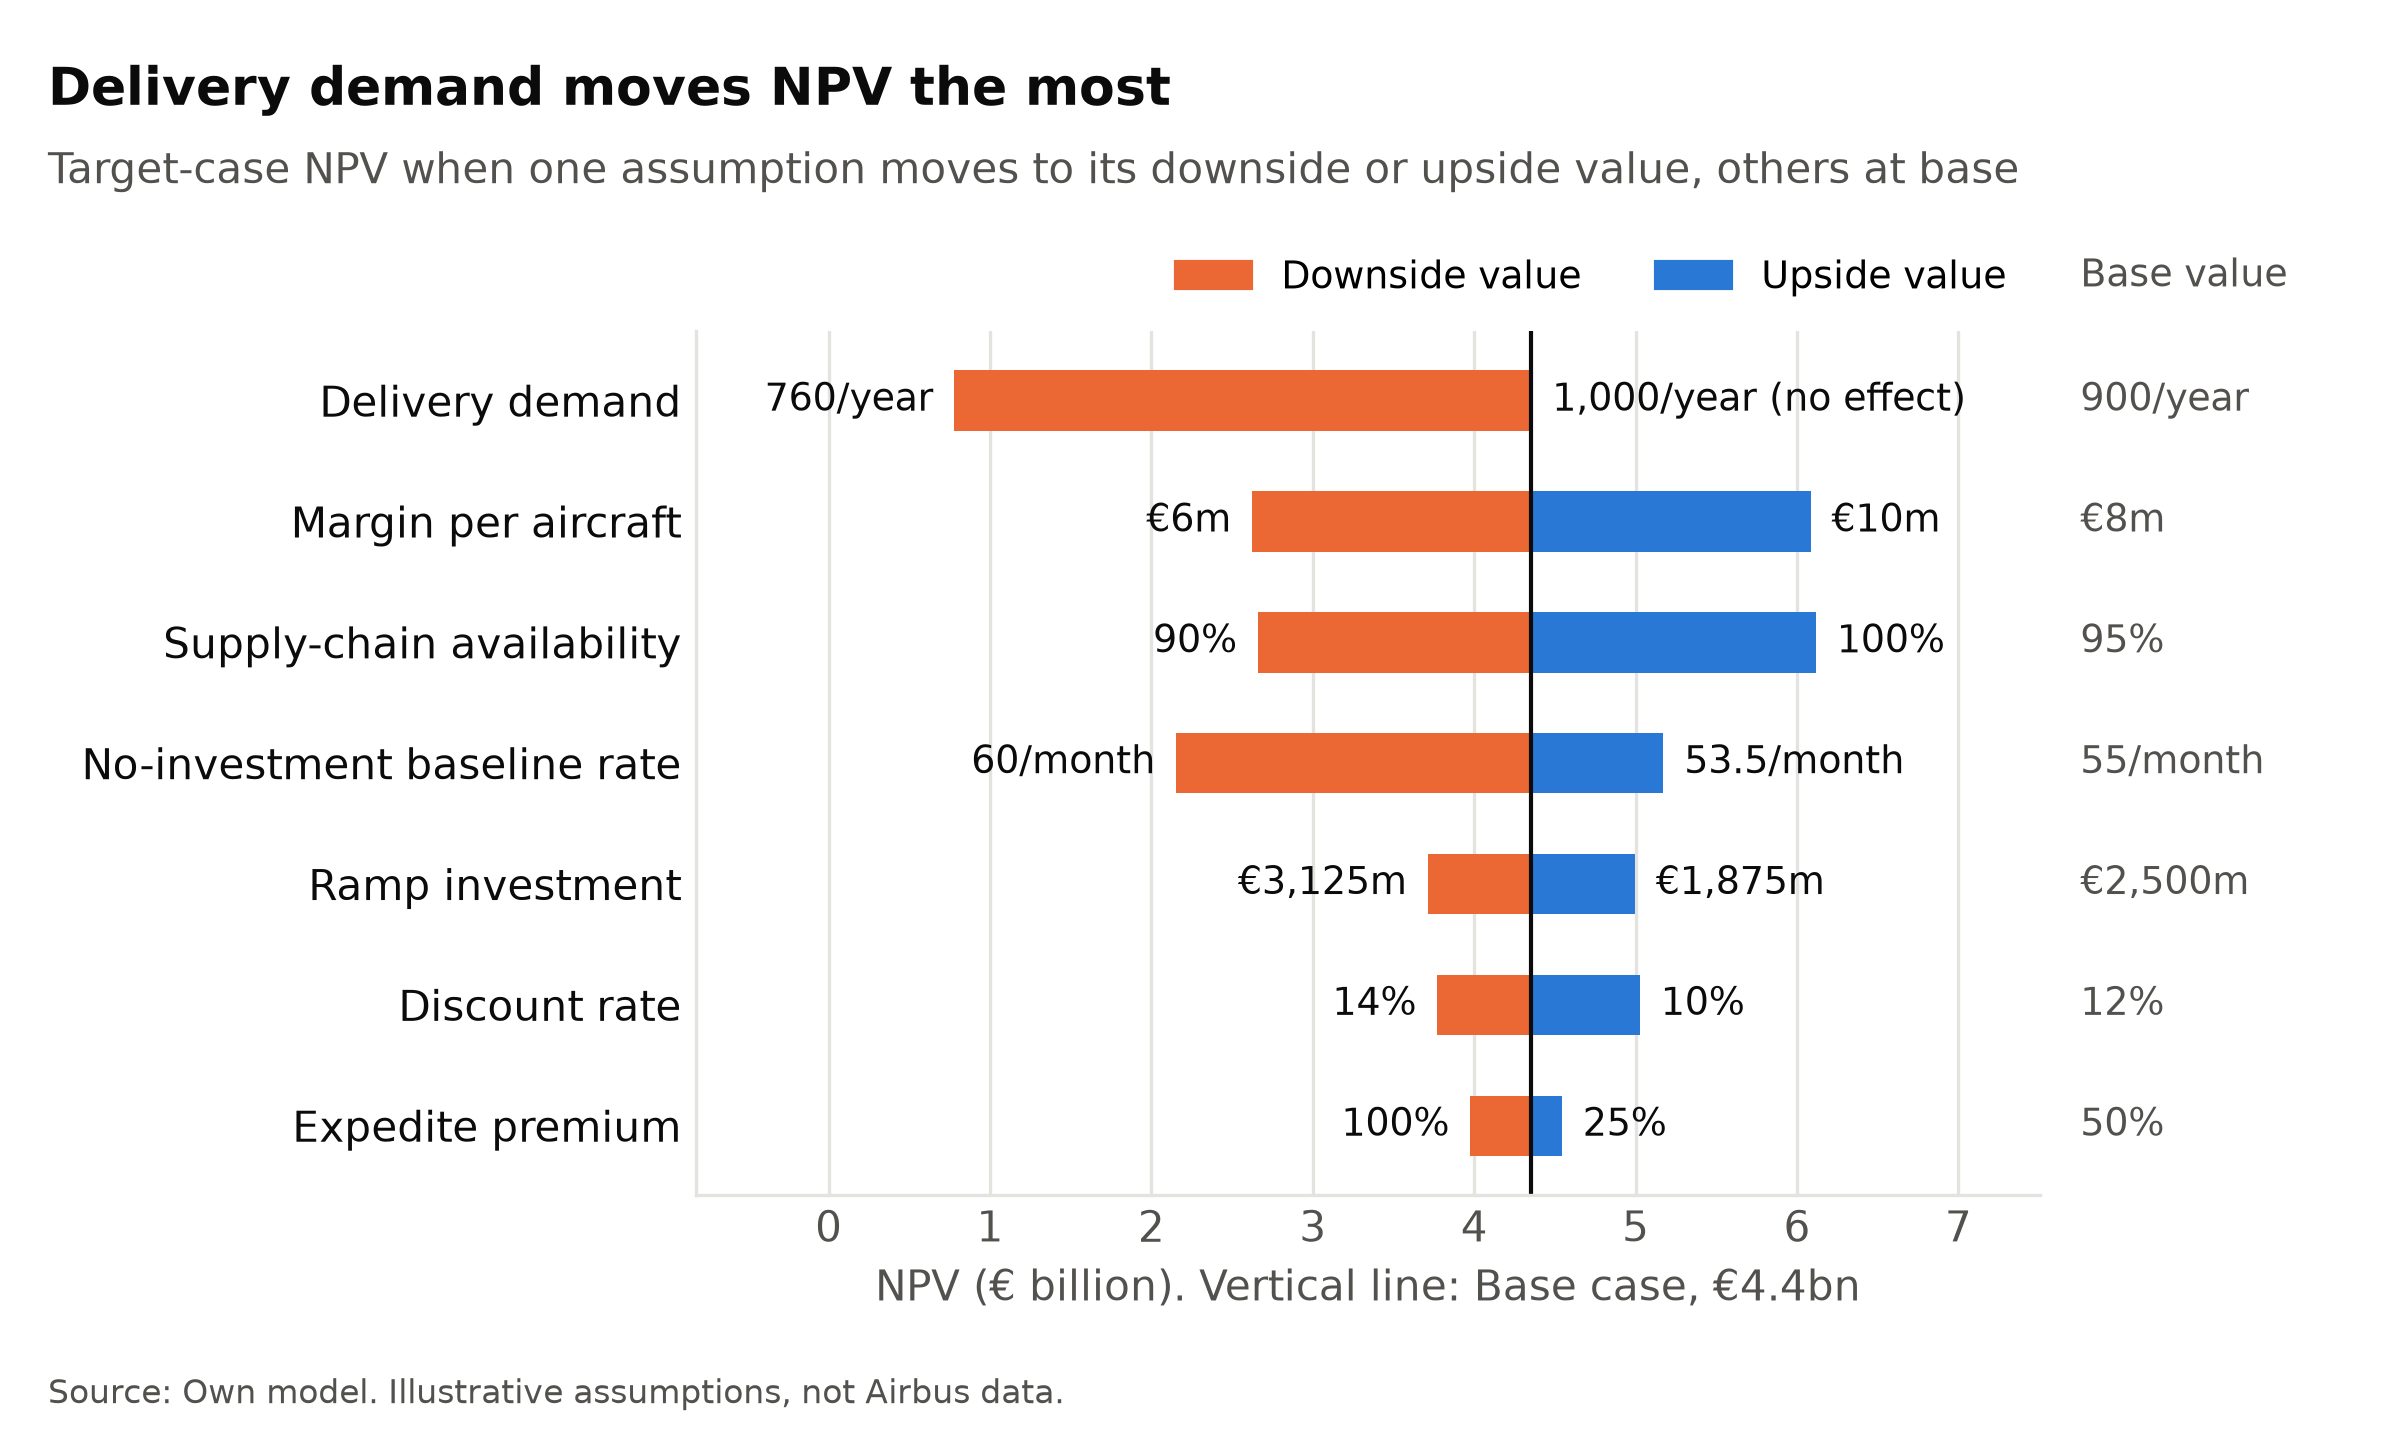
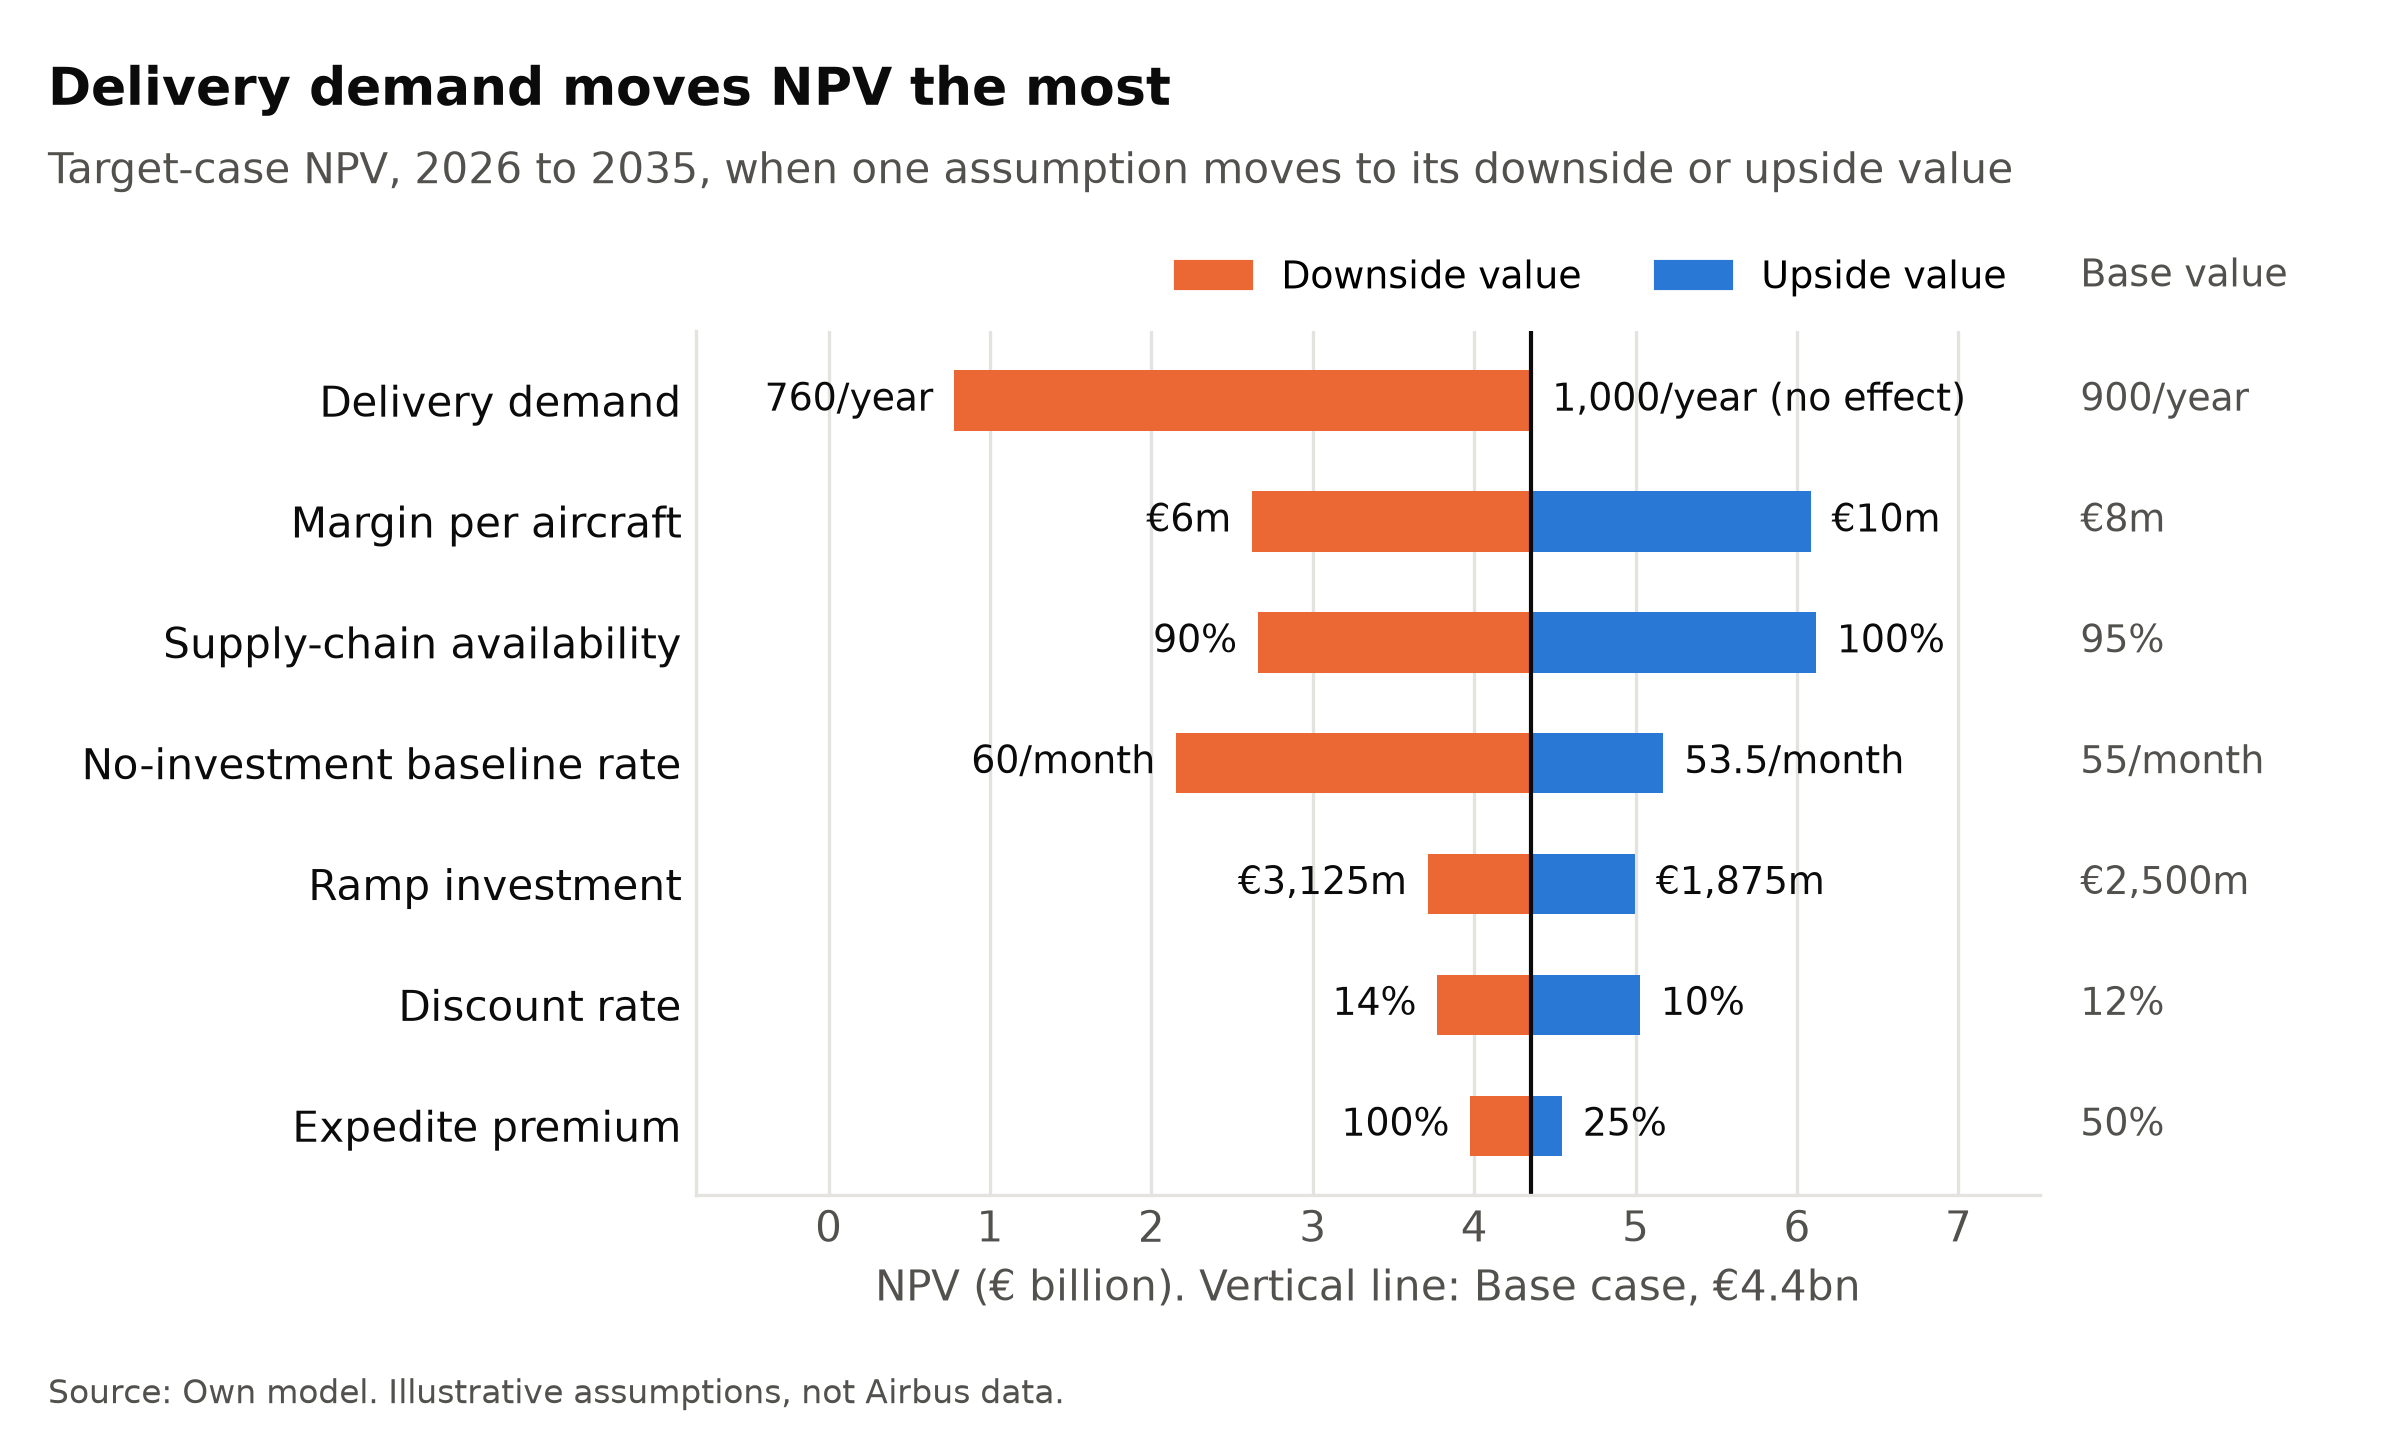
Clarify NPV in plots

Changed region(s): [[0.1562, 0.0938, 0.8438, 0.125]]

diff --git a/plots.py b/plots.py
@@ -52,6 +52,13 @@ from scenarios import (
 )
 
 
+def modelled_period_text():
+    """The years covered by the model itself, without the extended life."""
+    years = list(get_production_ramp(TARGET_CASE).keys())
+
+    return f"{years[0]} to {years[-1]}"
+
+
 # --------------------------------------------------
 # Figure: NPV vs production rate
 # --------------------------------------------------
@@ -136,8 +143,8 @@ def plot_npv_vs_production_rate(reported):
             f"where capacity meets delivery demand"
         ),
         subtitle=(
-            "NPV by constant monthly A320-family production rate, "
-            "base assumptions"
+            f"NPV, {modelled_period_text()}, by constant monthly "
+            f"A320-family production rate"
         ),
     )
 
@@ -232,8 +239,8 @@ def plot_npv_vs_production_rate_by_demand(reported):
             f"{peaks['upside']:.0f} a month across the demand range"
         ),
         subtitle=(
-            "NPV by constant monthly production rate for three "
-            "long-run delivery demand levels"
+            f"NPV, {modelled_period_text()}, by constant monthly "
+            f"production rate for three demand levels"
         ),
     )
 
@@ -466,8 +473,8 @@ def plot_npv_tornado():
             f"{largest['label']} moves NPV the most"
         ),
         subtitle=(
-            "Target-case NPV when one assumption moves to its downside or "
-            "upside value, others at base"
+            f"Target-case NPV, {modelled_period_text()}, when one "
+            f"assumption moves to its downside or upside value"
         ),
     )
 
@@ -627,8 +634,8 @@ def plot_npv_vs_supply_chain_availability(
         fig,
         headline=headline,
         subtitle=(
-            "NPV by ramp scenario and supply-chain availability. "
-            "Break-even shown for the Airbus target case"
+            f"NPV, {modelled_period_text()}, by supply-chain availability. "
+            f"Break-even shown for the Airbus target case"
         ),
     )
 
